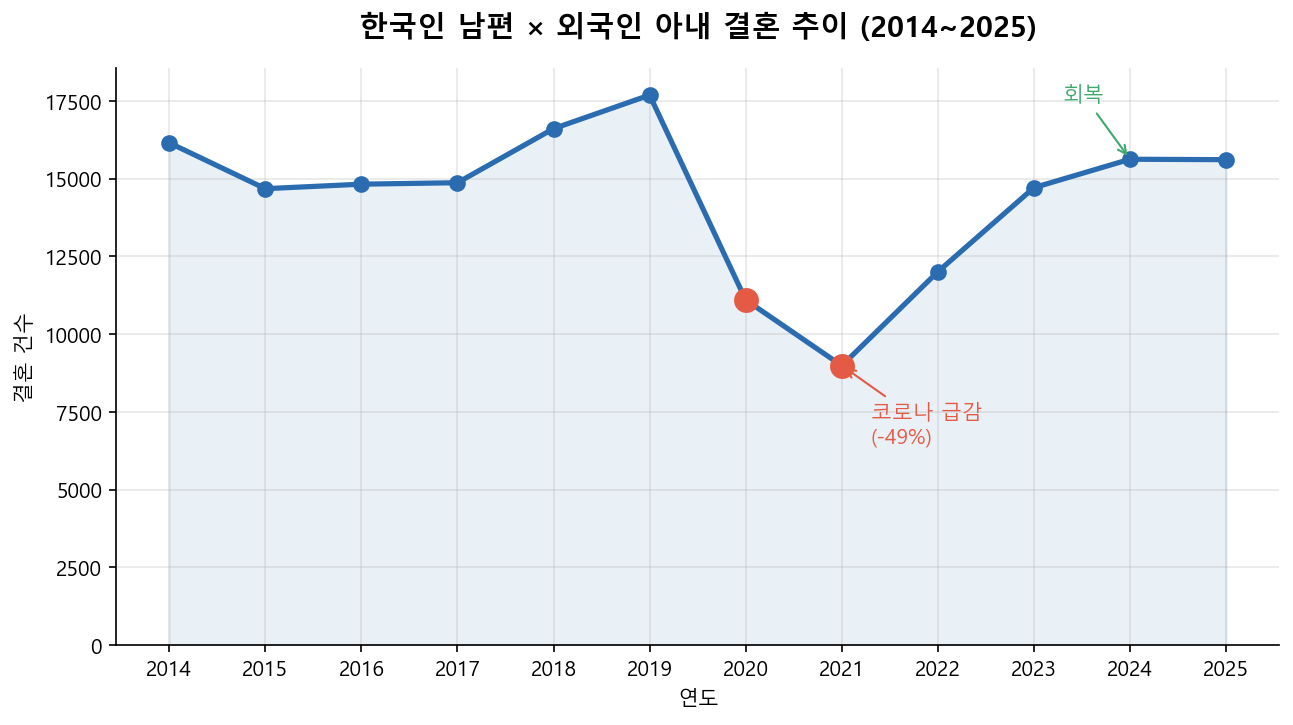
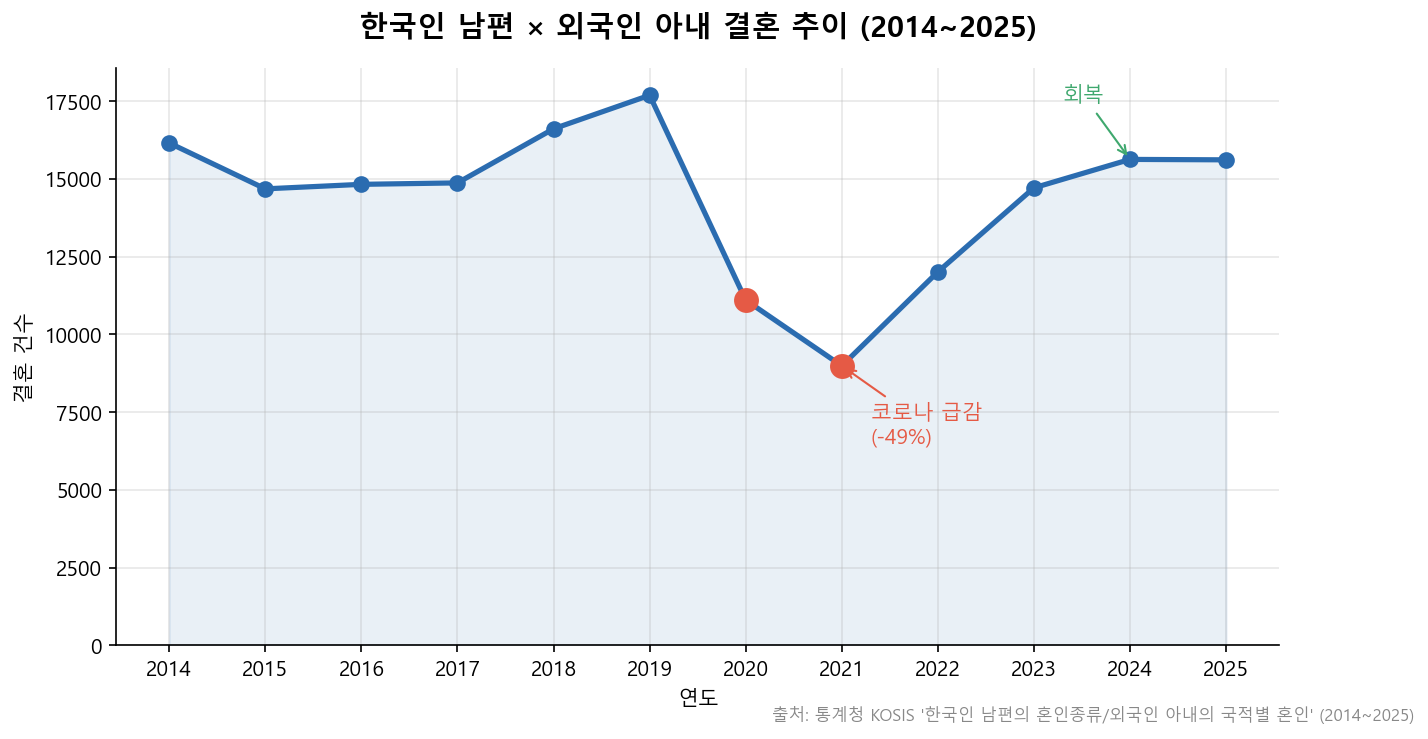
docs(graphs): 9개 그래프 우하단 출처 표기 + 6·9번 캡션 위치 조정
- save() 헬퍼에 source 인자 추가 (우하단 회색 이탤릭으로 자동 표시)
- 출처 매핑:
  · 1·2: 통계청 KOSIS 한국인 남편의 혼인종류/외국인 아내의 국적별 혼인
  · 3·4·5·6: 한국교육개발원 KESS 다문화 학생 통계 (초등)
  · 7·9: 여성가족부 2024 전국 다문화가족 실태조사
  · 8: 자체 분석 (어휘 예시) + 여가부 평균 점수
- 6·9번 그래프 하단 메시지가 출처와 겹치던 문제 fix
  (메시지 y 0.02 → 0.08~0.09, bottom margin 0.18 → 0.22)

학술·발표용 출처 명시 보강.

diff --git a/docs/graphs/generate_stats_graphs.py b/docs/graphs/generate_stats_graphs.py
@@ -47,7 +47,12 @@ MUTED   = "#A8B5C2"     # gray-blue
 GREEN   = "#3FA86E"
 
 
-def save(fig, name: str):
+def save(fig, name: str, source: str = ""):
+    """그래프 저장. source 있으면 우하단에 출처 텍스트 자동 삽입."""
+    if source:
+        fig.text(0.99, 0.005, f"출처: {source}",
+                 ha="right", va="bottom", fontsize=8,
+                 color="#888", style="italic")
     path = OUT / f"{name}.png"
     fig.savefig(path, dpi=150, bbox_inches="tight", facecolor="white")
     plt.close(fig)
@@ -79,7 +84,8 @@ def chart_marriage_trend():
     ax.grid(True, alpha=0.3)
     ax.spines["top"].set_visible(False)
     ax.spines["right"].set_visible(False)
-    save(fig, "1_marriage_trend")
+    save(fig, "1_marriage_trend",
+         source="통계청 KOSIS '한국인 남편의 혼인종류/외국인 아내의 국적별 혼인' (2014~2025)")
 
 
 # ── 2. 2025년 국가 순위 (가로 막대) ────────────────────────────────
@@ -117,7 +123,8 @@ def chart_country_ranking():
     legend = [Patch(color=PRIMARY, label="SchoolBridge 9개 언어 직접 지원"),
               Patch(color=MUTED, label="기타")]
     ax.legend(handles=legend, loc="lower right", frameon=False)
-    save(fig, "2_country_ranking")
+    save(fig, "2_country_ranking",
+         source="통계청 KOSIS '한국인 남편의 혼인종류/외국인 아내의 국적별 혼인' (2025)")
 
 
 # ── 3. 다문화 초등 학생 13년 추이 (누적 면적) ─────────────────────
@@ -145,7 +152,8 @@ def chart_student_trend():
                 xy=(2025, 116601), xytext=(2018, 110000),
                 fontsize=10, color=ACCENT, weight="bold",
                 arrowprops=dict(arrowstyle="->", color=ACCENT))
-    save(fig, "3_student_trend")
+    save(fig, "3_student_trend",
+         source="한국교육개발원 KESS '연도별 다문화 학생수' (초등학교, 2012~2025)")
 
 
 # ── 4. 부모 국적별 학생 (2025 초등) — 가로 막대 ────────────────────
@@ -185,7 +193,8 @@ def chart_parent_nationality():
     legend = [Patch(color=PRIMARY, label="SchoolBridge 9개 언어 직접 지원"),
               Patch(color=MUTED, label="기타")]
     ax.legend(handles=legend, loc="lower right", frameon=False)
-    save(fig, "4_parent_nationality")
+    save(fig, "4_parent_nationality",
+         source="한국교육개발원 KESS '연도별 부모 국적별 다문화 학생수' (초등학교, 2025)")
 
 
 # ── 5. 시도별 분포 (2025 초등) — 가로 막대 ────────────────────────
@@ -225,7 +234,8 @@ def chart_region_distribution():
     ax.set_xlabel("학생 수")
     ax.spines["top"].set_visible(False)
     ax.spines["right"].set_visible(False)
-    save(fig, "5_region_distribution")
+    save(fig, "5_region_distribution",
+         source="한국교육개발원 KESS '행정구역별 다문화(유형별) 학생수' (초등학교, 2025)")
 
 
 # ── 6. TOP5 vs BOTTOM5 — 시군구 다문화 학생 격차 ────────────────
@@ -288,12 +298,13 @@ def chart_hotspot_paradox():
     # 전체 제목 + 하단 메시지 (단순 데이터 사실만)
     fig.suptitle("시군구별 다문화 초등학생 격차 (2025) — 안산 5,205명 vs 울릉 6명, 약 870배",
                  fontsize=14, weight="bold", y=0.99)
-    fig.text(0.5, 0.02,
+    fig.text(0.5, 0.08,
              "전국 시군구 간 다문화 학생 분포 매우 불균등 — 작은 지역일수록 행정·교육 자원 격차 가능성",
              ha="center", fontsize=10.5, color="#444", style="italic")
 
-    plt.subplots_adjust(left=0.10, right=0.97, top=0.85, bottom=0.13, wspace=0.45)
-    save(fig, "6_hotspot_paradox")
+    plt.subplots_adjust(left=0.10, right=0.97, top=0.85, bottom=0.22, wspace=0.45)
+    save(fig, "6_hotspot_paradox",
+         source="한국교육개발원 KESS '행정구역별 다문화(유형별) 학생수' (초등학교, 2025) 시군구 단위")
 
 
 # ── 7. 한국어 능력 4영역 (여가부 2024) — 막대 ────────────────────
@@ -324,7 +335,8 @@ def chart_korean_ability():
                 arrowprops=dict(arrowstyle="->", color=ACCENT, lw=1.8),
                 bbox=dict(boxstyle="round,pad=0.45", fc="#FFF5F0",
                           ec=ACCENT, lw=1.5))
-    save(fig, "7_korean_ability")
+    save(fig, "7_korean_ability",
+         source="여성가족부 '2024년 전국 다문화가족 실태조사'")
 
 
 # ── 8. 가정통신문 어휘 난이도 — "일상 회화 ≠ 가정통신문" ────────
@@ -389,7 +401,8 @@ def chart_form_letter_vocab():
             bbox=dict(boxstyle="round,pad=0.55", fc="#E8F2FB",
                       ec=PRIMARY, lw=1.5))
 
-    save(fig, "8_form_letter_vocab")
+    save(fig, "8_form_letter_vocab",
+         source="자체 분석 (가정통신문 어휘 예시) / 평균 점수: 여성가족부 2024 다문화가족 실태조사")
 
 
 # ── 9. 간접 데이터 종합 — 가정통신문 영역 격차의 일관된 신호 ──────
@@ -424,12 +437,13 @@ def chart_indirect_evidence():
     ax.grid(True, alpha=0.3, axis="x")
 
     # 하단 메시지
-    fig.text(0.5, 0.02,
+    fig.text(0.5, 0.09,
              "→ '가정통신문 이해도' 직접 통계는 부재. 그러나 정보·소통 격차 신호가 일관적으로 한 방향을 가리킨다.",
              ha="center", fontsize=10.5, color=PRIMARY, weight="bold")
 
-    plt.subplots_adjust(left=0.20, right=0.95, top=0.88, bottom=0.13)
-    save(fig, "9_indirect_evidence")
+    plt.subplots_adjust(left=0.20, right=0.95, top=0.88, bottom=0.22)
+    save(fig, "9_indirect_evidence",
+         source="여성가족부 '2024년 전국 다문화가족 실태조사'")
 
 
 if __name__ == "__main__":
